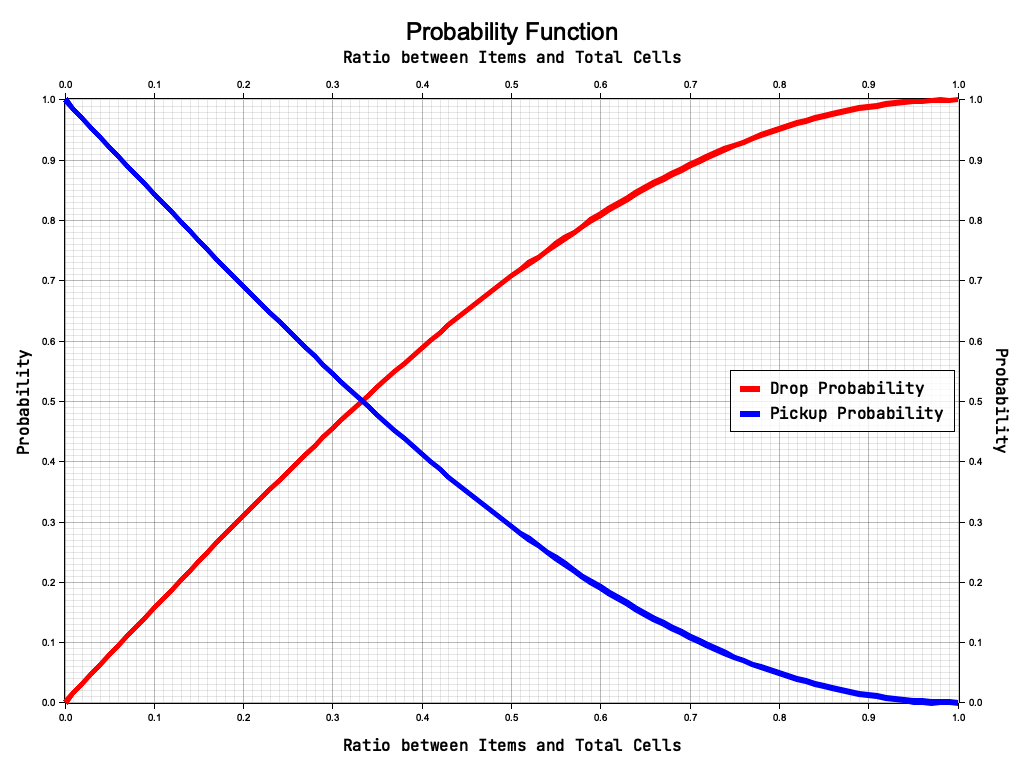
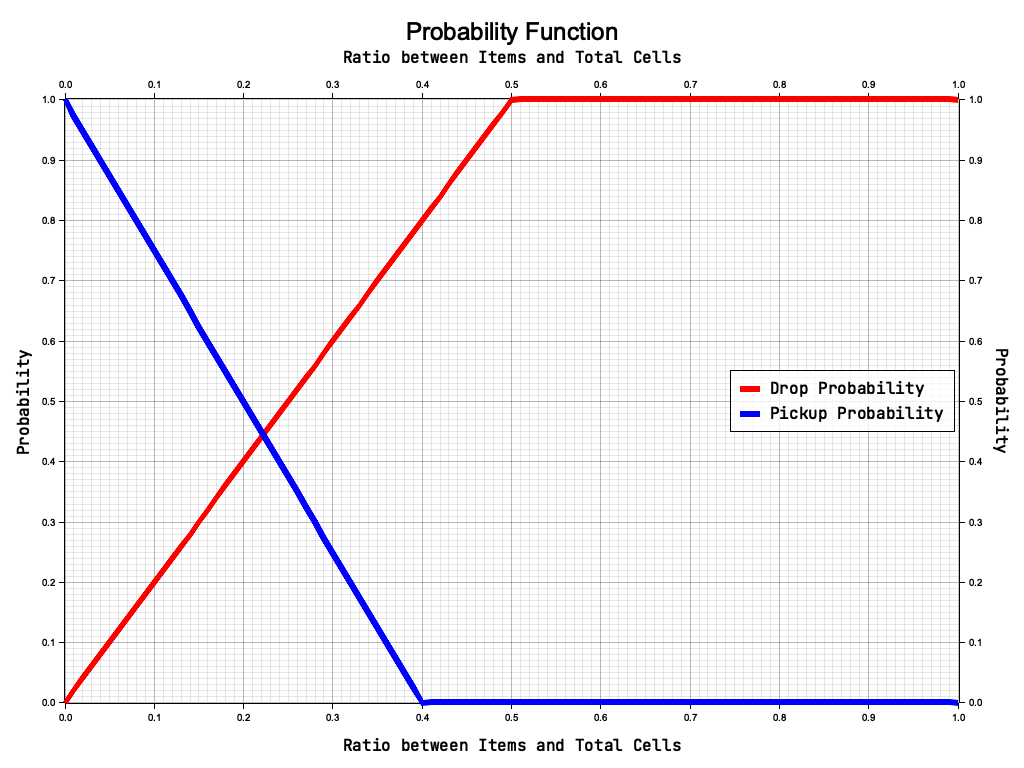
const ALPHA

diff --git a/src/simulation/item/item.rs b/src/simulation/item/item.rs
@@ -2,13 +2,22 @@ use bevy::prelude::*;
 use rand::Rng;
 
 use super::group_colors::HIGH_CONTRAST_COLORS;
-use crate::consts::{ITEM_RADIUS, ITEM_SUBDIVISIONS};
+use crate::consts::{ALPHA, ITEM_RADIUS, ITEM_SUBDIVISIONS};
 use crate::dataset::{Dataset, DatasetHandle};
 use crate::{BoardPosition, IcoBoard};
 
 #[derive(Component)]
 pub struct Item {
+    pub similarity: f64,
     pub data: [f32; 2],
+}
+
+impl Item {
+    pub fn dis(&self, other: &Self) -> f64 {
+        let [x1, y1] = self.data;
+        let [x2, y2] = other.data;
+        ((x1 - x2) * (x1 - x2) + (y1 - y2) * (y1 - y2)).sqrt() as f64
+    }
 }
 
 pub fn item_spawn_on_dataset_load(
@@ -61,7 +70,7 @@ pub fn item_spawn_on_dataset_load(
                     for data in v {
                         let pos = loop {
                             let pos = board.new_random_position();
-                            if board.get_cell(&pos).food.is_none() {
+                            if board.get_cell(&pos).item.is_none() {
                                 break pos;
                             }
                         };
@@ -77,11 +86,14 @@ pub fn item_spawn_on_dataset_load(
                                 },
                                 ..default()
                             })
-                            .insert(Item { data: *data })
+                            .insert(Item {
+                                similarity: 0.0,
+                                data: *data,
+                            })
                             .insert(pos)
                             .id();
 
-                        board.get_cell_mut(&pos).food = Some(id);
+                        board.get_cell_mut(&pos).item = Some(id);
                     }
                 }
             }
@@ -90,29 +102,34 @@ pub fn item_spawn_on_dataset_load(
     }
 }
 
-pub fn item_position_update(
-    mut query: Query<
-        (&mut Transform, &mut Visibility, &BoardPosition),
-        (Changed<BoardPosition>, With<Item>),
-    >,
-    board: Res<IcoBoard>,
-) {
-    for (mut transform, mut visibility, pos) in &mut query {
-        transform.translation = board.world_position(pos).into();
-        visibility.is_visible = true;
+pub fn item_similarity_update(mut query: Query<(&mut Item, &BoardPosition)>, board: Res<IcoBoard>) {
+    let alpha = ALPHA;
+
+    let item_quantity = query.iter().len();
+    let mut similarities = vec![0.0; item_quantity];
+    for (id, (item, pos)) in query.iter().enumerate() {
+        let mut similarity = 0.0;
+        let adj = board.get_all_adjacent(pos);
+        let s = adj.len() as f64;
+        for other_pos in adj {
+            if let Some(entity) = board.get_cell(&other_pos).item {
+                let (other, _) = query.get(entity).unwrap();
+                similarity += 1. - item.dis(other) / alpha;
+            };
+        }
+        similarities[id] = (similarity / s).max(0.0);
+    }
+
+    for (id, (mut item, _)) in query.iter_mut().enumerate() {
+        item.similarity = similarities[id];
     }
 }
 
-pub fn item_pickup_update(
-    removals: RemovedComponents<BoardPosition>,
-    mut query: Query<&mut Visibility>,
+pub fn item_position_update(
+    mut query: Query<(&mut Transform, &BoardPosition), (Changed<BoardPosition>, With<Item>)>,
+    board: Res<IcoBoard>,
 ) {
-    for entity in removals.iter() {
-        let mut visibility = query.get_mut(entity).unwrap_or_else(|_| {
-            let error_message = "Could not find BoardEntity with removed BoardPosition";
-            error!("{error_message}");
-            panic!("{error_message}");
-        });
-        visibility.is_visible = false;
+    for (mut transform, pos) in &mut query {
+        transform.translation = board.world_position(pos).into();
     }
 }

diff --git a/src/simulation/ant/ant.rs b/src/simulation/ant/ant.rs
@@ -2,8 +2,8 @@ use bevy::prelude::*;
 use bevy::reflect::TypeUuid;
 use rand::Rng;
 
-use super::prob::probability_function;
 use crate::consts::{ANT_COUNT, ANT_HEIGHT, ANT_RADIUS, BOARD_RADIUS};
+use crate::simulation::ant::{drop_probability, pickup_probability};
 use crate::simulation::board::BoardPosition;
 use crate::simulation::item::Item;
 use crate::{IcoBoard, SimulationStatus};
@@ -76,37 +76,29 @@ pub fn ant_move(
 
 pub fn ant_pickup_drop(
     status: Res<SimulationStatus>,
-    mut commands: Commands,
     mut query: Query<(&BoardPosition, &mut Ant)>,
+    mut item_query: Query<(&Item, &mut Visibility)>,
     mut board: ResMut<IcoBoard>,
 ) {
     let mut rng = rand::thread_rng();
     for (pos, mut ant) in &mut query {
-        let (empty_cells, food_cells) = {
-            let mut empty_cells = 0;
-            let mut food_cells = 0;
-            for lookup_pos in board.get_all_adjacent(pos) {
-                match board.get_cell(&lookup_pos).food {
-                    None => empty_cells += 1,
-                    Some(_) => food_cells += 1,
+        match (board.get_cell(pos).item, ant.item) {
+            (Some(entity), None) => {
+                if status.ending {
+                    continue;
                 }
-            }
-            (empty_cells as f64, food_cells as f64)
-        };
-        let ratio = food_cells / (food_cells + empty_cells);
-        let prob = probability_function(ratio);
 
-        match (board.get_cell(pos).food, ant.item) {
-            (Some(item), None) => {
-                if !status.ending && rng.gen_bool(1. - prob) {
-                    commands.entity(item).remove::<BoardPosition>();
-                    ant.item = board.get_cell_mut(pos).food.take();
+                let (item, mut visibility) = item_query.get_mut(entity).unwrap();
+                if rng.gen_bool(pickup_probability(item.similarity)) {
+                    visibility.is_visible = false;
+                    ant.item = board.get_cell_mut(pos).item.take();
                 }
             }
-            (None, Some(item)) => {
-                if rng.gen_bool(prob) {
-                    commands.entity(item).insert(*pos);
-                    board.get_cell_mut(pos).food = ant.item.take();
+            (None, Some(entity)) => {
+                let (item, mut visibility) = item_query.get_mut(entity).unwrap();
+                if rng.gen_bool(drop_probability(item.similarity)) {
+                    visibility.is_visible = true;
+                    board.get_cell_mut(pos).item = ant.item.take();
                 }
             }
             (_, _) => {}
@@ -136,5 +128,16 @@ pub fn ant_position_update(
         transform.translation = translation;
         transform.rotation =
             Quat::from_rotation_arc(Vec3::Y, Vec3::from(board.world_position(&pos)).normalize());
+    }
+}
+
+pub fn ant_carried_item_position_update(
+    mut items: Query<&mut BoardPosition, With<Item>>,
+    ants: Query<(&BoardPosition, &Ant), (Changed<BoardPosition>, Without<Item>)>,
+) {
+    for (pos, ant) in &ants {
+        if let Some(entity) = ant.item {
+            *items.get_mut(entity).unwrap() = *pos;
+        }
     }
 }

diff --git a/src/simulation/ant/prob.rs b/src/simulation/ant/prob.rs
@@ -1,11 +1,13 @@
 use plotters::prelude::*;
-use std::f64::consts::FRAC_PI_2;
 
-/// # parameters
-/// ratio = Food divided by total cells
-pub fn probability_function(ratio: f64) -> f64 {
-    let prob = (ratio * FRAC_PI_2).sin();
-    prob
+pub fn pickup_probability(similarity: f64) -> f64 {
+    let k1 = 100. / 40.;
+    1. - (similarity * k1).min(1.0)
+}
+
+pub fn drop_probability(similarity: f64) -> f64 {
+    let k2 = 100. / 50.;
+    (similarity * k2).min(1.0)
 }
 
 pub fn draw_probability_function() {
@@ -38,7 +40,7 @@ pub fn draw_probability_function() {
     ctx.draw_series(LineSeries::new(
         (0..=100)
             .map(|x| x as f64 / 100.0)
-            .map(|x| (x, probability_function(x))),
+            .map(|x| (x, drop_probability(x))),
         style,
     ))
     .unwrap()
@@ -63,7 +65,7 @@ pub fn draw_probability_function() {
     ctx.draw_series(LineSeries::new(
         (0..=100)
             .map(|x| x as f64 / 100.0)
-            .map(|x| (x, 1. - probability_function(x))),
+            .map(|x| (x, pickup_probability(x))),
         style,
     ))
     .unwrap()

diff --git a/src/main.rs b/src/main.rs
@@ -81,16 +81,18 @@ fn main() {
             );
             stage
                 .get_system_stage(2)
-                .add_system(simulation::control::auto_pause);
+                .add_system(simulation::control::auto_pause)
+                .add_system(simulation::ant::ant_carried_item_position_update)
+                .add_system(
+                    simulation::item::item_similarity_update
+                        .after(simulation::ant::ant_carried_item_position_update),
+                );
             stage
         })
         // Per Frame Systems
         .add_system(simulation::ant::ant_texture_update)
         .add_system(simulation::ant::ant_position_update)
         .add_system(simulation::item::item_spawn_on_dataset_load)
-        .add_system(
-            simulation::item::item_pickup_update.before(simulation::item::item_position_update),
-        )
         .add_system(simulation::item::item_position_update)
         .add_system(simulation::control::simulation_pause_input_handler)
         .add_system(simulation::control::simulation_ending_input_handler)

diff --git a/src/dataset/mod.rs b/src/dataset/mod.rs
@@ -19,6 +19,6 @@ impl Plugin for DatasetPlugin {
 pub struct DatasetHandle(Handle<Dataset>);
 
 pub fn load_dataset(mut commands: Commands, asset_server: Res<AssetServer>) {
-    let handle = asset_server.load("dataset/dataset_04.txt");
+    let handle = asset_server.load("dataset/dataset_15.txt");
     commands.insert_resource(DatasetHandle(handle));
 }

diff --git a/src/simulation/board/cell.rs b/src/simulation/board/cell.rs
@@ -4,5 +4,5 @@ use bevy_inspector_egui::Inspectable;
 
 #[derive(Debug, Default, Copy, Clone, Reflect, FromReflect, Inspectable)]
 pub struct Cell {
-    pub food: Option<Entity>,
+    pub item: Option<Entity>,
 }

diff --git a/src/consts.rs b/src/consts.rs
@@ -18,3 +18,6 @@ pub const ITEM_RADIUS: f32 = 0.2;
 
 // Light
 pub const SUN_DISTANCE: f32 = 9.0;
+
+// Probability
+pub const ALPHA: f64 = 5.;
